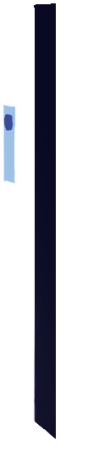
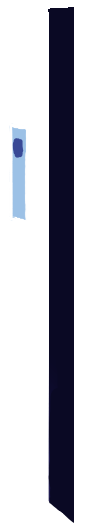
1

diff --git a/The Game/Script/restingroom_state.py b/The Game/Script/restingroom_state.py
@@ -72,6 +72,7 @@ class RestingroomState:
         self.RestingRoom_book_rect = self.RestingRoom_book.get_rect()
         self.RestingRoom_door_rect = self.RestingRoom_door.get_rect()
         self.RestingRoom_noplug_rect = self.RestingRoom_noplug.get_rect()
+        self.RestingRoom_onplug_rect = self.RestingRoom_onplug.get_rect()
         self.RestingRoom_plant_rect = self.RestingRoom_plant.get_rect()
         self.RestingRoom_plantnutrients_rect = self.RestingRoom_plantnutrients.get_rect()
         self.RestingRoom_tablitoff_rect = self.RestingRoom_tablitoff.get_rect()
@@ -87,13 +88,14 @@ class RestingroomState:
         # 이러면 딱 가운데에 맞춰지겠지.
         self.RestingRoom_background_rect.center = (self.screen_width // 2, self.screen_height // 2)
         self.RestingRoom_book_rect.center = (80,80)
-        self.RestingRoom_door_rect.center = (200,800)
+        self.RestingRoom_door_rect.topright = (self.screen_width, self.screen_height//5)
         self.RestingRoom_noplug_rect.center = (200,50)
         self.RestingRoom_plant_rect.center = (400,100)
         self.RestingRoom_plantnutrients_rect.center = (600,600)
         self.RestingRoom_tablitoff_rect.center = (1000,30)
         self.RestingRoom_tabliton_rect.center = (1000,600)
 
+    # def Book(self):
         
 
     # 상호작용 및 다양한 게임 이벤트 함수
@@ -181,3 +183,11 @@ class RestingroomState:
     # 이 함수는 위에서 네가 설정한 이미지를 화면에 그려주는 함수야.
     def draw(self, screen, event):
         screen.blit(self.RestingRoom_background, self.RestingRoom_background_rect)
+        screen.blit(self.RestingRoom_book, self.RestingRoom_book_rect)
+        screen.blit(self.RestingRoom_door, self.RestingRoom_door_rect)
+        screen.blit(self.RestingRoom_noplug, self.RestingRoom_noplug_rect)
+        screen.blit(self.RestingRoom_plant, self.RestingRoom_plant_rect)
+        screen.blit(self.RestingRoom_plantnutrients, self.RestingRoom_plantnutrients_rect)
+        screen.blit(self.RestingRoom_tablitoff, self.RestingRoom_tablitoff_rect)
+        screen.blit(self.RestingRoom_tabliton, self.RestingRoom_tabliton_rect)
+        screen.blit(self.RestingRoom_onplug, self.RestingRoom_onplug_rect)
